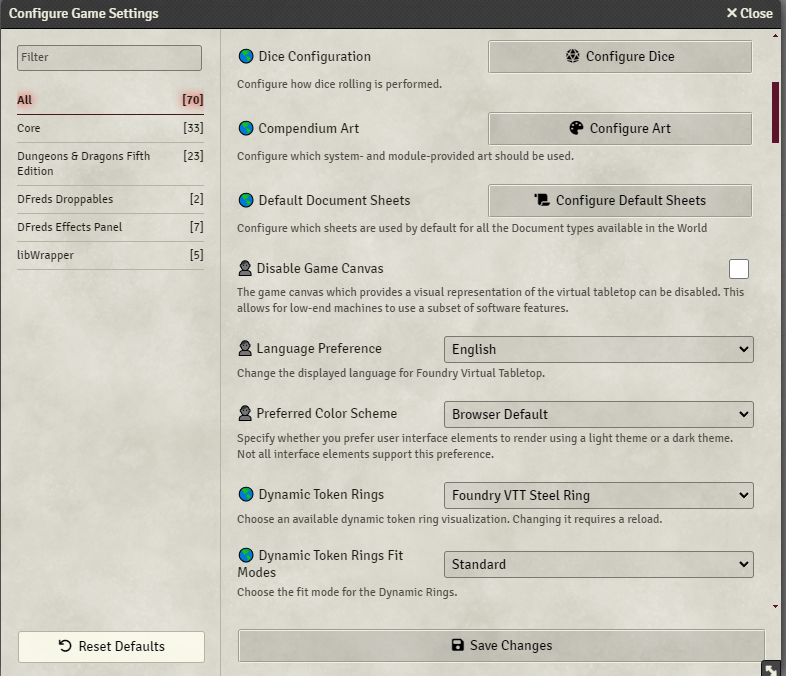
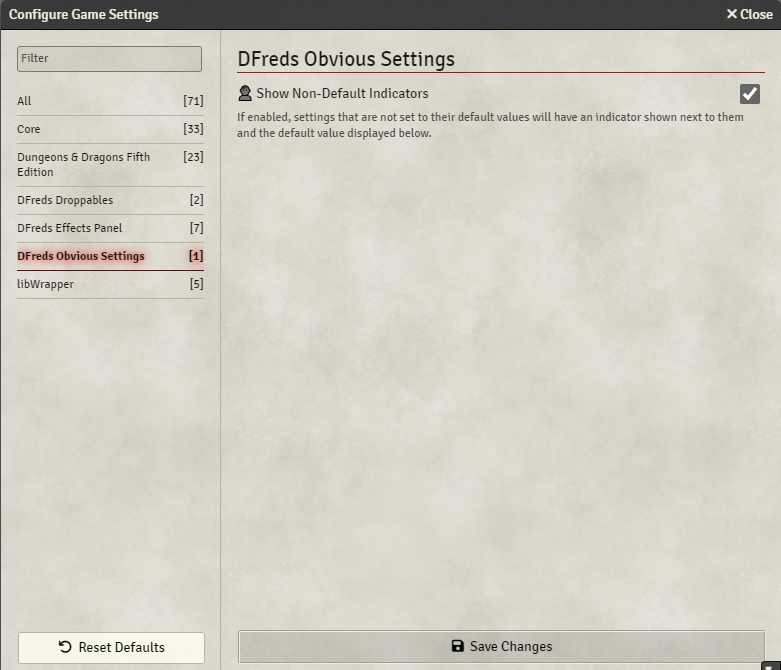
Update the readme for the new features

diff --git a/README.md b/README.md
@@ -30,14 +30,15 @@
 </p>
 
 <p align="center">
-    <b>DFreds Obvious Settings</b> is a FoundryVTT module that indicates if a setting is a world or client scope.
+    <b>DFreds Obvious Settings</b> is a FoundryVTT module that makes the settings configuration more obvious in various ways.
 </p>
 
 ## Let Me Sell You This
 
 When setting up your new game, isn't it a bit confusing which settings will
-impact players, and which settings will only impact yourself? Well, now you
-don't need to be confused.
+impact players, and which settings will only impact yourself? Do you forget what
+settings are different from their default values? Well, if only there was a
+module to help you out...
 
 ## What This Module Does
 
@@ -45,4 +46,10 @@ This module adds a 🌎 icon before settings scoped to "world" (will be set for
 all players) and a 👤 icon before settings scoped to "client" (personal settings
 per user).
 
-![Obvious Settings](docs/settings.png)
+It also indicates if a setting is not set to its default value.
+
+![Obvious Settings](docs/showcase.png)
+
+You can configure some stuff:
+
+![Settings](docs/settings.png)
